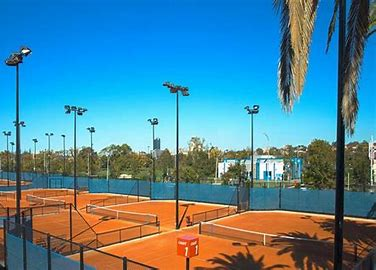
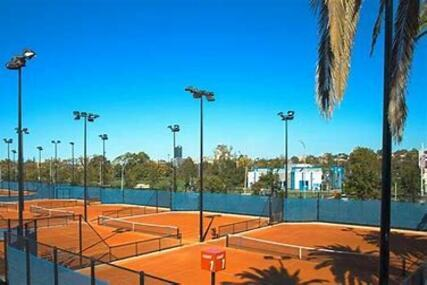
eee

diff --git a/center.html b/center.html
@@ -6,7 +6,7 @@
   <meta name="viewport" content="width=device-width, initial-scale=1.0">
   <link href="https://cdn.jsdelivr.net/npm/bootstrap@5.0.2/dist/css/bootstrap.min.css" rel="stylesheet" integrity="sha384-EVSTQN3/azprG1Anm3QDgpJLIm9Nao0Yz1ztcQTwFspd3yD65VohhpuuCOmLASjC" crossorigin="anonymous">
   <link rel="stylesheet" href="ourcoaches.css">
-  <title>Our coaches</title>
+  <title>Center</title>
 
  
 </head>
@@ -47,23 +47,23 @@
     </div>
   </nav>
   <div class="container">
-    <h1>Our Coaches</h1>
+    <h1>Our training center</h1>
+    <br></br>
     <div class="row">
         <div class="col-md-3">
             <div class="card">
-                <img src="docs\patrick.jpg" class="card-img-top" alt="Coach 1">
+                <img src="docs\gym.jpg" class="card-img-top" alt="Coach 1">
                 <div class="card-body">
                     <div class=" text-center">
-                        <h5 class="card-title">Patrick Mouratoglou</h5>
+                        <h5 class="card-title">GYM</h5>
                     </div>
                     <p class="card-text">
-                        Languages: French, English, Spanish
+                        A fully equiped gym is available for our members. Multiples professional training coaches are there to help you achieve your goals. A room for tennis-training is available everyday!
+                    </p>
+                        
                             
-                        </p>
-                        <p>Speciality: Backhand</p>
-                        <div class="text-center">
-                            <button type="button" class="btn btn-outline-primary">See more</button>
-                        </div>
+                        
+                        
                     </p>
                 </div>
             </div>
@@ -72,18 +72,17 @@
 
         <div class="col-md-3">
             <div class="card">
-                <img src="docs\tony1.jpg" class="card-img-top" alt="Coach 2">
+                <img src="docs\api.jpg" class="card-img-top" alt="Coach 2">
                 <div class="card-body">
                     <div class=" text-center">
-                        <h5 class="card-title">Tony nadal</h5>
+                        <h5 class="card-title">Swimming pool</h5>
                     </div>
                     <p class="card-text">
-                        Languages: Spanish, English, Catalan
+                        A newly built swimming pool is open everyday starting from 7am. You can come and enjoy a cool afternoon with us or go and start a specific aquatic training
                     </p>
-                    <p>Speciality: Forehand</p>
-                    <div class="text-center">
-                        <button type="button" class="btn btn-outline-primary">See more</button>
-                    </div>
+                    
+                    
+                    
                     <p></p>
                     <p></p>
                 </div>
@@ -91,16 +90,17 @@
         </div>
         <div class="col-md-3">
             <div class="card">
-                <img src="docs\payet.jpg" class="card-img-top" alt="Coach 3">
+                <img src="docs\ad.jpg" class="card-img-top" alt="Coach 3">
                 <div class="card-body">
                     <div class=" text-center">
-                        <h5 class="card-title">Pauline Payet</h5>
+                        <h5 class="card-title">Tennis courts</h5>
+                        
                     </div>
-                    <p class="card-text">Languages: French, English, German</p>
-                    <p>Speciality: Moving</p>
-                    <div class="text-center">
-                        <button type="button" class="btn btn-outline-primary">See more</button>
-                    </div>
+                    <p class="card-text">For the best experience possible, we have imported high quality courts for our members and clients. 
+                        In total, 8 hard courts, 10 clay courts, and 4 grass courts
+                    </p>
+                    
+                    
                     <p></p>
                 </div>
                 
@@ -108,16 +108,14 @@
         </div>
         <div class="col-md-3">
             <div class="card">
-                <img src="docs\rachid 2.jpg" class="card-img-top" alt="Coach 4">
+                <img src="docs\resto.jpg" class="card-img-top" alt="Coach 4">
                 <div class="card-body">
                     <div class=" text-center">
-                        <h5 class="card-title">Holger Rune</h5>
+                        <h5 class="card-title">Restaurant</h5>
                     </div>
-                    <p class="card-text">Languages: English, Danish, Swedish</p>
-                    <p>Speciality: Serve</p>
-                    <div class="text-center">
-                        <button type="button" class="btn btn-outline-primary">See more</button>
-                    </div>
+                    <p class="card-text">Our restaurant is open everyday from 9 am to 8 pm. They, you can find all kind of Italian and specialities and snacks made by our Chef: Giorgio Do not forget: Food is important too!</p>
+                    
+                    
                     <p></p>
                 </div>
             </div>

diff --git a/aboutus.html b/aboutus.html
@@ -35,7 +35,7 @@
             <a class="nav-link active" href="ourcoaches.html">Our coaches</a>
           </li>
           <li class="nav-item">
-            <a class="nav-link active" href="#">Our training center</a>
+            <a class="nav-link active" href="center.html">Our training center</a>
           </li>
           <li class="nav-item">
             <button type="button" class="btn btn-outline-light">Book Now</button>
@@ -117,6 +117,18 @@
     </h4>
 
     <h5>
+      <br></br>
+      Membership
+    </h5>
+
+    <h6>
+      The RGA offers a special annual membership. Our members have a full access to all our facilities 24/7, a 50% discount on all the courses, and an invitation to watch the first round of the canadian Open each year.
+      <br></br>
+      The annual membership costs 3000$ + Tax.
+      
+    </h6>
+
+    <h5>
         <br></br>
         Where are we located 
     </h5>
@@ -124,6 +136,18 @@
     <h4>
         Our training center is located at 90 university private. It is composed of 22 tennis courts ( 8 hard, 10 clay, 4 grass), a full equipped gym, a swimming pool and a restaurant. All the training session are located there.
     </h4>
+
+    <h5>
+      <br></br>
+      To contact us
+    </h5>
+
+    <h6>
+      If you have any question, you can contact us at RGA@uottawa.ca or at +1(613)123-4567
+      <br></br>
+      We are open Monday-Friday (9am-5pm)
+      
+    </h6>
    </div>
 
    <div class="text-center">

diff --git a/center.css b/center.css
@@ -1,0 +1,47 @@
+body{
+ 
+    
+    min-height: 2000px;
+  }
+  
+  
+  .bg-img{
+    height: 100vh;
+    width: 100vw;
+    object-fit: cover;
+    filter: brightness(0.6);
+    position: absolute;
+    top: 0;
+    left: 0;
+    z-index: -1;
+  }
+  
+  .rounded-circle{
+    height: 80px;
+  }
+  
+  .navbar-nav :focus {
+    justify-content: center;
+    
+  }
+  
+  
+  h1{
+    color: white;
+    text-align: center;
+    font-size: xx-large;
+    font-family: 'Times New Roman', Times, serif;
+  }
+  
+  h2{
+    color: white;
+    text-align: center;
+    font-size: large;
+    font-family: 'Times New Roman', Times, serif;
+  }
+  
+  
+  #adam{
+    align-items: center;
+    font-size: xx-large;
+  }

diff --git a/index.html b/index.html
@@ -35,7 +35,7 @@
             <a class="nav-link active" href="ourcoaches.html">Our coaches</a>
           </li>
           <li class="nav-item">
-            <a class="nav-link active" href="#">Our training center</a>
+            <a class="nav-link active" href="center.html">Our training center</a>
           </li>
           <li class="nav-item">
             <button type="button" class="btn btn-outline-light">Book Now</button>
